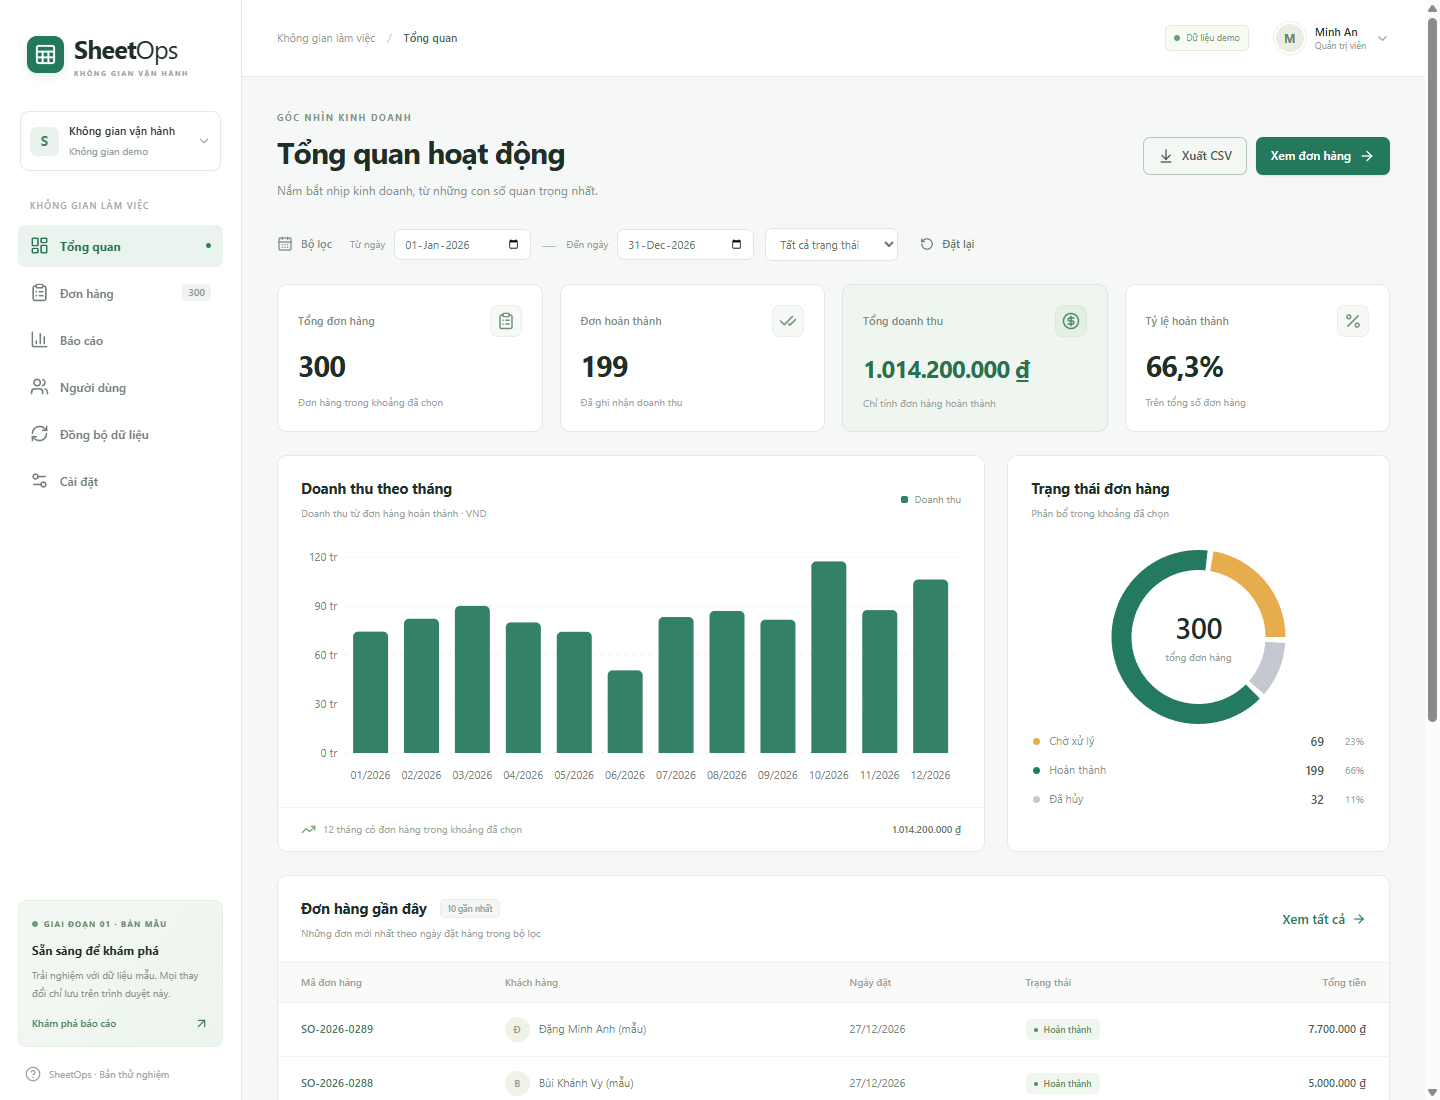
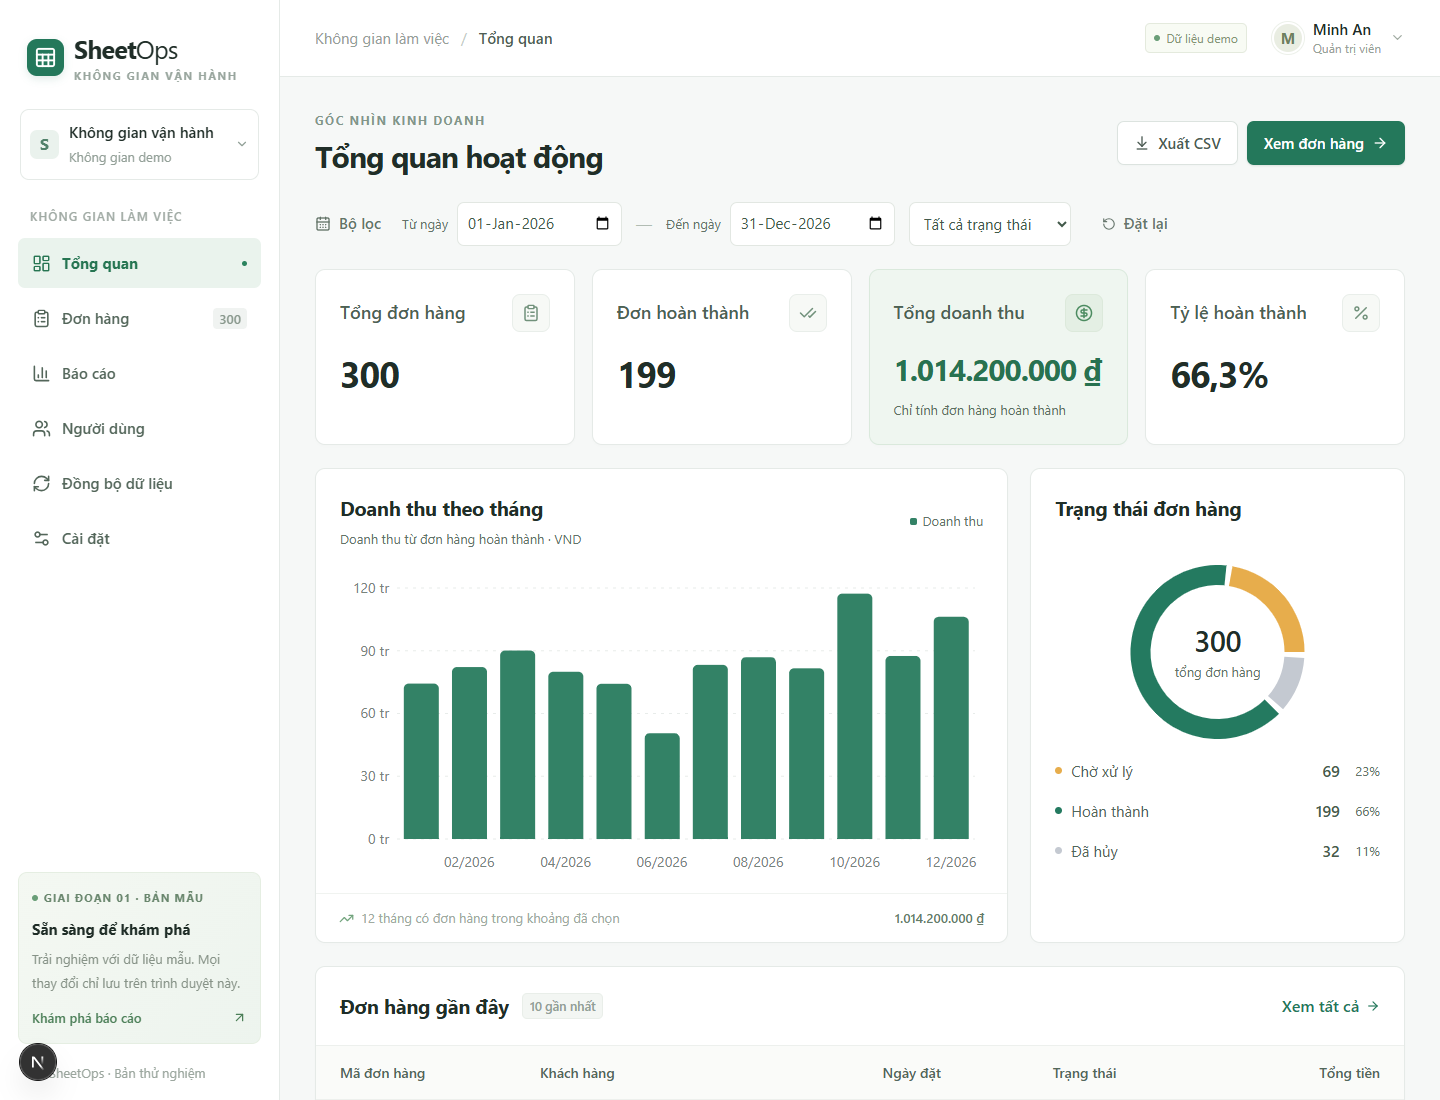
docs: update readability verification and review screenshots

diff --git a/docs/VERIFICATION.md b/docs/VERIFICATION.md
@@ -42,9 +42,16 @@ Tested the **production build** with Playwright CLI in Chromium, at 1440×1100 d
 
 - [Desktop dashboard](screenshots/dashboard-desktop.png)
 - [Mobile dashboard](screenshots/dashboard-mobile.png)
+- [Orders table](screenshots/orders-desktop.png)
 - [Repeatable demo walkthrough](UAT.md)
 - Unit suite: `tests/domain.test.ts` (deterministic seed, schema/storage validation, dates/amounts/codes, mutations, filters, aggregate consistency, roles/user safeguards, CSV quoting and formula escaping).
 
-Playwright runtime snapshots, console logs, and downloaded CSV are ignored under `.playwright-cli/` and `output/playwright/`. Only the two selected screenshots are tracked. This delivery does not include a Playwright test-runner suite; the observed browser run and repeatable manual UAT are documented separately from the automated unit suite. Storage-denial and corrupt-storage recovery, every user-change dialog, and all browsers were not manually exercised. Their applicable pure domain invariants are unit-tested.
+Playwright runtime snapshots, console logs, and downloaded CSV are ignored under `.playwright-cli/` and `output/playwright/`. Only selected review screenshots are tracked. This delivery does not include a Playwright test-runner suite; the observed browser run and repeatable manual UAT are documented separately from the automated unit suite. Storage-denial and corrupt-storage recovery, every user-change dialog, and all browsers were not manually exercised. Their applicable pure domain invariants are unit-tested.
 
 GitHub Actions is configured for the same checks on pushes to `main` and pull requests. Local verification does not imply that a remote Actions run has passed; its status must be checked in GitHub after pushing. No application deployment is part of Phase 1.
+
+## Readability refinement — 2026-11-02
+
+Increased the shared typography scale across login and all six workspace pages: navigation/body/table data 15–16px, KPI labels 18px, section headings 20px, chart ticks 14px. Removed page subtitle descriptions and redundant order/chart/KPI captions while retaining revenue semantics and demo warnings. Resized cards, controls, rows, sidebar, dialogs and responsive grids; phone KPIs stack in one column to preserve legibility.
+
+Validated ESLint, strict TypeScript, all 33 unit tests and production build. Build needed the same Windows filesystem access documented above. Browser review covered all six workspace routes at 1440px desktop and 390px mobile; no whole-document horizontal overflow on any mobile route. Desktop dashboard measured 15px navigation, 18px KPI labels and 20px section titles. The linked screenshots reflect the updated layout.
